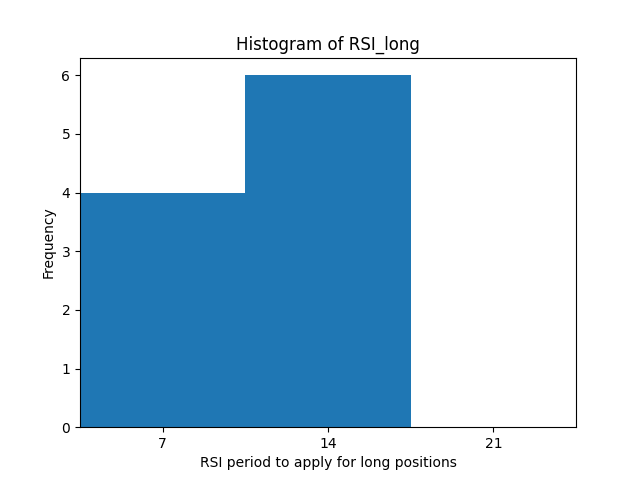
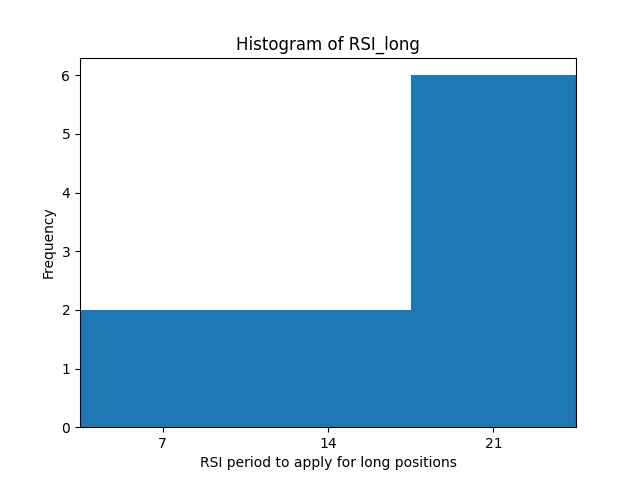
3_3

diff --git a/Proj2/ROImaximization_3_3.py b/Proj2/ROImaximization_3_3.py
@@ -57,9 +57,9 @@ XOM['Date'] = pd.to_datetime(XOM['Date'], format='%d/%m/%Y')
 csvs = [AAL, AAPL, AMZN, BAC, F, GOOG, IBM, INTC, NVDA, XOM]
 csvs_names = ['AAL', 'AAPL', 'AMZN', 'BAC', 'F', 'GOOG', 'IBM', 'INTC', 'NVDA', 'XOM']
 
-GENERATIONS = 10000
-INITIAL_POPULATION = 100 
-N_RUNS = 1
+GENERATIONS = 10
+INITIAL_POPULATION = 5 
+N_RUNS = 3
 INFINITY = np.inf
 GAP_ANALYZED = 50
 PERF_THRESHOLD = 1
@@ -127,13 +127,13 @@ toolbox.register("individual", generate)
 toolbox.register("population", tools.initRepeat, list, toolbox.individual)
 
 # the goal ('fitness') function to be maximized
-def evalROI(individual, csv_name):
+def evalROI(individual, csv_name, start_date, end_date):
     RSI_long, RSI_short, LB_LP, UP_LP, LB_SP, UP_SP = individual
     # print(individual)
     # Para cada csv calcular ROI (2020-2022)
     # cortar df para periodo 20-22
-    start_date = '2020-01-01'
-    end_date = '2022-12-31'
+    # start_date = '2011-01-01'
+    # end_date = '2019-12-31'
     
     csv = csvs[csvs_names.index(csv_name)]
     
@@ -141,7 +141,7 @@ def evalROI(individual, csv_name):
     ROI_long = 0
     
     
-    csv_2020_22 = csv[(csv['Date'] >= start_date) & (csv['Date'] <= end_date)].reset_index(drop=True)
+    csv_2011_19 = csv[(csv['Date'] >= start_date) & (csv['Date'] <= end_date)].reset_index(drop=True)
 
     begin_LP = -1 # valor de compra de ações
     end_LP = -1 # valor de venda de ações
@@ -164,7 +164,7 @@ def evalROI(individual, csv_name):
     else:
         col_RSI_short = 'RSI_21days'
 
-    for index, row in csv_2020_22.iterrows():
+    for index, row in csv_2011_19.iterrows():
 
         if(row[col_RSI_long] <= LB_LP and begin_LP == -1):
             begin_LP = row['Close']
@@ -258,10 +258,13 @@ def oa_csv(csv_name):
     
     print("Start of evolution")
     
+    # start_date = '2011-01-01'
+    # end_date = '2019-12-31'
+    
     # Evaluate the entire population
     fitnesses = []
     for individual in pop:
-        fitnesses.append(toolbox.evaluate(individual, csv_name))
+        fitnesses.append(toolbox.evaluate(individual, csv_name, '2011-01-01', '2019-12-31'))
         
     for ind, fit in zip(pop, fitnesses):
         ind.fitness.values = fit
@@ -316,7 +319,7 @@ def oa_csv(csv_name):
         invalid_ind = [ind for ind in offspring if not ind.fitness.valid]
         fitnesses = []
         for i in invalid_ind:
-            fitnesses.append(toolbox.evaluate(i, csv_name))
+            fitnesses.append(toolbox.evaluate(i, csv_name, '2011-01-01', '2019-12-31'))
         for ind, fit in zip(invalid_ind, fitnesses):
             ind.fitness.values = fit
         
@@ -471,15 +474,25 @@ def generate_boxplots(fitness_csvs):
 
 def main():
     
-    result = pd.DataFrame()
-    result['Stocks'] = csvs_names
+    train_result = pd.DataFrame()
+    train_result['Stocks'] = csvs_names
     
-    max_final = []
-    min_final = []
-    avg_final = []
-    std_final = []
+    test_result = pd.DataFrame()
+    test_result['Stocks'] = csvs_names
+    
+    test_max_final = []
+    test_min_final = []
+    test_avg_final = []
+    test_std_final = []
+    
+    train_max_final = []
+    train_min_final = []
+    train_avg_final = []
+    train_std_final = []
+    
     best_individuals_csvs = []
     fitness_csvs = []
+    eval_csvs = []
     
     for name in csvs_names:
         list_max = []
@@ -488,7 +501,7 @@ def main():
         list_std = []
         fitness_final = []
         best_individuals = []
-         
+        eval_csv = []
         for i in range(N_RUNS):
             random.seed(i)
             max, min, avg, std, best_individual, fitness = oa_csv(name)
@@ -498,21 +511,33 @@ def main():
             list_avg.append(avg)
             list_std.append(std)
             fitness_final.append(fitness[0])
+            eval_csv.append(evalROI(best_individual, name, '2020-01-01', '2022-12-31')) #training
         best_individuals_csvs.append(best_individuals)
-        max_final.append(np.max(list_max))
-        min_final.append(np.min(list_min))
-        avg_final.append(np.mean(list_avg))
-        std_final.append(np.std(fitness_final))
-        fitness_csvs.append(fitness_final)        
+        
+        eval_csvs.append(eval_csv)
+        
+        train_max_final.append(np.max(list_max))
+        train_min_final.append(np.min(list_min))
+        train_avg_final.append(np.mean(list_avg))
+        train_std_final.append(np.std(fitness_final))
+        fitness_csvs.append(fitness_final)  
+        
+        test_max_final.append(np.max(eval_csv))
+        test_min_final.append(np.min(eval_csv))
+        test_avg_final.append(np.mean(eval_csv))
+        test_std_final.append(np.std(eval_csv))      
     
-    result['Max'] = max_final 
-    result['Min'] = min_final
-    result['Mean'] = avg_final 
-    result['STD'] = std_final 
-    result.to_csv('ACI_Project2_2324_Data/' + 'results' + '.csv', index = None, header=True, encoding='utf-8')
+    train_result['Max'] = train_max_final 
+    train_result['Min'] = train_min_final
+    train_result['Mean'] = train_avg_final 
+    train_result['STD'] = train_std_final 
+    train_result.to_csv('ACI_Project2_2324_Data/' + 'train_results_3_3' + '.csv', index = None, header=True, encoding='utf-8')
     
-    generate_histograms(best_individuals_csvs)
-    generate_boxplots(fitness_csvs)
+    test_result['Max'] = test_max_final 
+    test_result['Min'] = test_min_final
+    test_result['Mean'] = test_avg_final 
+    test_result['STD'] = test_std_final 
+    test_result.to_csv('ACI_Project2_2324_Data/' + 'test_results_3_3' + '.csv', index = None, header=True, encoding='utf-8')
     
 
 import time
